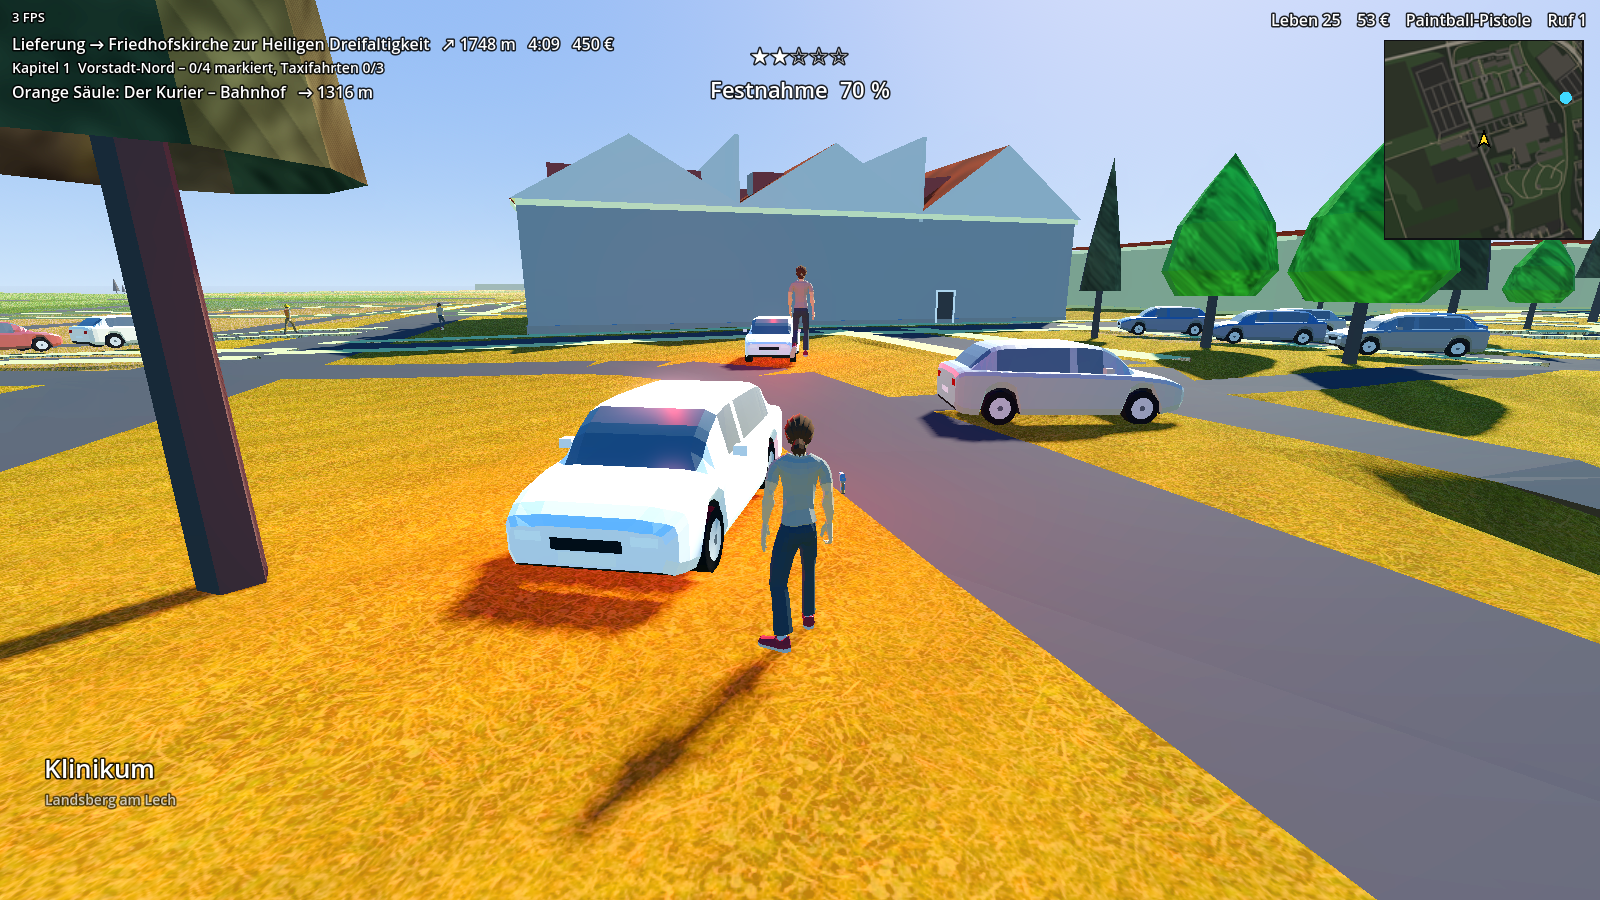
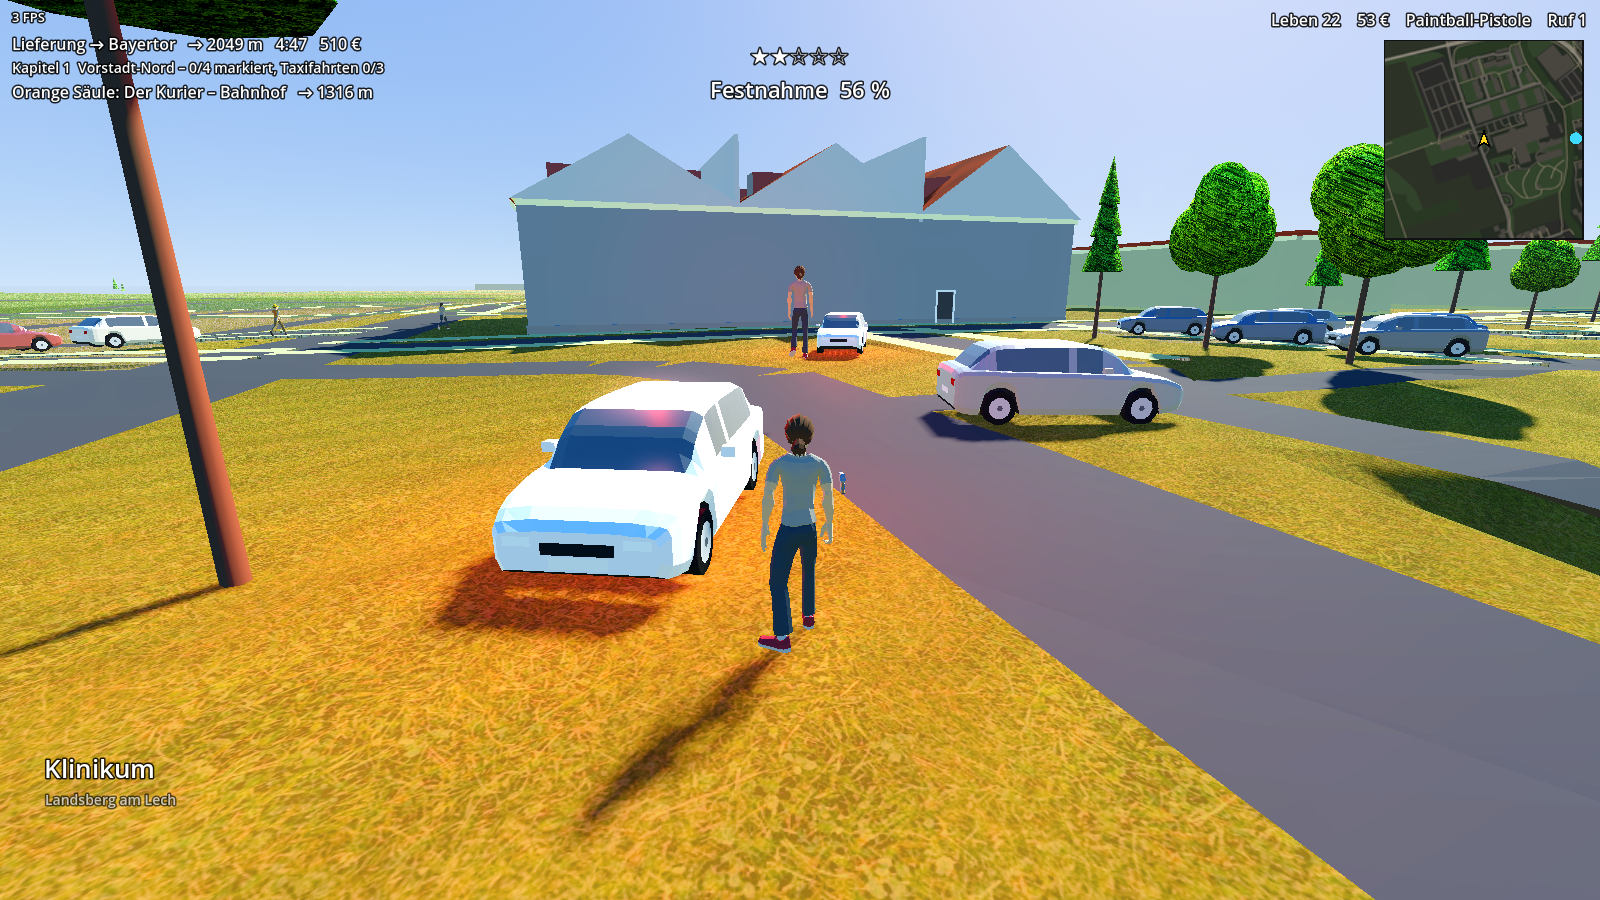
Godot: Baeume als Instanzen mit runder Laubkrone (Laubtextur von OpenRouter), Tests im Render-Lauf stabil
Claude-Session: https://claude.ai/code/session_01G8trYZWv6f7xcfM8xxU6YN

diff --git a/Tools/konvertiere_sektoren.py b/Tools/konvertiere_sektoren.py
@@ -45,6 +45,54 @@ def nach_godot(p: np.ndarray) -> np.ndarray:
     return v[:, [0, 2, 1]].astype(np.float32)
 
 
+def komponenten(pos: np.ndarray, idx: np.ndarray) -> list:
+    """Zusammenhaengende Teile eines Netzes: Liste von Eckenindex-Arrays."""
+    eltern = np.arange(len(pos))
+
+    def wurzel(a: int) -> int:
+        while eltern[a] != a:
+            eltern[a] = eltern[eltern[a]]
+            a = eltern[a]
+        return a
+
+    for a, b, c in idx.reshape(-1, 3):
+        ra, rb = wurzel(a), wurzel(b)
+        eltern[ra] = rb
+        eltern[wurzel(c)] = rb
+    gruppen: dict = {}
+    for v in range(len(pos)):
+        gruppen.setdefault(wurzel(v), []).append(v)
+    return [np.asarray(g) for g in gruppen.values()]
+
+
+def baeume_aus(abschnitte: list) -> np.ndarray:
+    """Jeder Baum der Quelldaten (ein Kronen-Netz plus ein Stamm-Netz) wird zu einer Zeile
+    [x, y_fuss, z, krone_mitte_ueber_fuss, krone_radius, krone_halbe_hoehe, r, g, b]
+    in Godot-Achsen. Godot setzt daraus Instanzen (Kugelkrone, Stamm) statt der Kegelnetze."""
+    staemme = []
+    kronen = []
+    for name, pos, idx, farbe in abschnitte:
+        if art(name) not in ("Tree", "Trunk"):
+            continue
+        for g in komponenten(pos, idx):
+            p = pos[g]
+            lo, hi = p.min(axis=0), p.max(axis=0)
+            eintrag = ((lo[0] + hi[0]) / 2, (lo[2] + hi[2]) / 2, lo[1], hi[1],
+                       max(hi[0] - lo[0], hi[2] - lo[2]) / 2, farbe)
+            (kronen if art(name) == "Tree" else staemme).append(eintrag)
+    zeilen = []
+    for kx, kz, ky0, ky1, radius, farbe in kronen:
+        boden = ky0 - 2.2
+        beste = 16.0
+        for sx, sz, sy0, _sy1, _r, _f in staemme:
+            d = (sx - kx) ** 2 + (sz - kz) ** 2
+            if d < beste:
+                beste, boden = d, sy0
+        zeilen.append([kx, boden, kz, (ky0 + ky1) / 2 - boden, max(radius, 0.6),
+                       max((ky1 - ky0) / 2, 0.6), *farbe[:3]])
+    return np.asarray(zeilen, dtype=np.float32).reshape(-1, 9)
+
+
 def main() -> int:
     manifest_pfad = QUELLE / "Sectors" / "manifest.json"
     if not manifest_pfad.exists() or manifest_pfad.stat().st_size < 1000:
@@ -59,12 +107,17 @@ def main() -> int:
         daten = json.loads((QUELLE / "Sectors" / eintrag["file"]).read_text())
         abschnitte = []
         kollision = []
+        baumquellen = []
         with open(ZIEL / "sektoren" / f"{eintrag['id']}.msh", "wb") as msh:
             for a in daten["sections"]:
                 pos = nach_godot(np.asarray(a["positions"], dtype=np.float64))
                 idx = np.asarray(a["indices"], dtype=np.int32)
                 if len(idx) % 3 or idx.max(initial=-1) >= len(pos):
                     raise ValueError(f"{eintrag['id']}/{a['name']}: Indizes passen nicht zu den Ecken")
+                if art(a["name"]) in ("Tree", "Trunk"):
+                    # Baeume werden als Instanzen gestellt (siehe baeume_aus), nicht als Netz.
+                    baumquellen.append((a["name"], pos, idx.reshape(-1, 3), a["color"][:3]))
+                    continue
                 idx = np.ascontiguousarray(idx.reshape(-1, 3)[:, [0, 2, 1]]).reshape(-1)
                 msh.write(pos.tobytes())
                 msh.write(idx.tobytes())
@@ -74,6 +127,8 @@ def main() -> int:
                 dreiecke += len(idx) // 3
                 if art(a["name"]) in KOLLISION:
                     kollision.append(pos[idx])
+        baeume = baeume_aus(baumquellen)
+        (ZIEL / "sektoren" / f"{eintrag['id']}.baeume").write_bytes(baeume.tobytes())
         flaechen = np.concatenate(kollision) if kollision else np.zeros((0, 3), np.float32)
         (ZIEL / "sektoren" / f"{eintrag['id']}.col").write_bytes(flaechen.tobytes())
         summe_msh += (ZIEL / "sektoren" / f"{eintrag['id']}.msh").stat().st_size
@@ -81,7 +136,8 @@ def main() -> int:
         b = eintrag["boundsCm"]
         verzeichnis.append({"id": eintrag["id"], "index": eintrag["index"],
                             "grenzen": [b[0] / 100, b[1] / 100, b[2] / 100, b[3] / 100],
-                            "kollision_ecken": int(len(flaechen)), "abschnitte": abschnitte})
+                            "kollision_ecken": int(len(flaechen)), "baeume": int(len(baeume)),
+                            "abschnitte": abschnitte})
 
     spawn = manifest["spawn"]
     (ZIEL / "sektoren.json").write_text(json.dumps({
